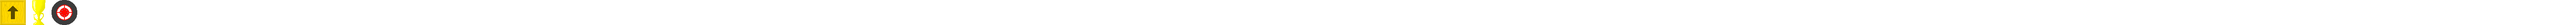
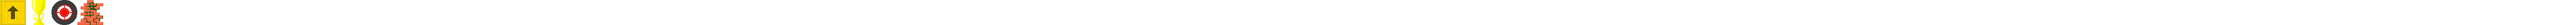
new box

Changed region(s): [[0.0312, 0.125, 0.0625, 1.0]]

diff --git a/src/com/pokeyone/throwbackgorilla/states/GameState.java b/src/com/pokeyone/throwbackgorilla/states/GameState.java
@@ -14,7 +14,6 @@ import javax.swing.*;
 import java.awt.*;
 import java.awt.event.ActionEvent;
 import java.awt.event.KeyEvent;
-import java.beans.PropertyChangeListener;
 import java.util.ArrayList;
 import java.util.Date;
 import java.util.HashMap;
@@ -55,6 +54,8 @@ public class GameState extends State {
     private int boxCount = 0;
     // Minimum box frequency
     private int boxFreqStopThreshold = 750;
+    // Whether or not game is paused
+    private boolean paused = false;
 
     public GameState(){
         super(Frame.FRAME_WIDTH, Frame.FRAME_HEIGHT);
@@ -71,7 +72,7 @@ public class GameState extends State {
             resourceHandler.addResource("Gorilla.png", RES_GORILLA_NAME, ResourceType.TILE_SET, 64, 64, 3);
             resourceHandler.addResource("grass.png", RES_GRASS_NAME, ResourceType.IMAGE);
             resourceHandler.addResource("background.png", RES_BACKGROUND_NAME, ResourceType.IMAGE);
-            resourceHandler.addResource("boxes.png", RES_BOX_TILESET_NAME, ResourceType.TILE_SET, 64, 64, 3);
+            resourceHandler.addResource("boxes.png", RES_BOX_TILESET_NAME, ResourceType.TILE_SET, 64, 64, 4);
             resourceHandler.loadAll();
         }catch(Exception e){
             e.printStackTrace();
@@ -109,86 +110,88 @@ public class GameState extends State {
     }
 
     public void tick(){
-        // Main Character Animation
-        if(new Date().getTime() - mainCharacterLastFrame.getTime() >= 250) {
-            if (mainCharacter.currentImage == 2){
-                mainCharacter.currentImage = 0;
-            }
-            if (mainCharacter.currentImage == 0) {
-                mainCharacter.currentImage = 1;
-            } else {
-                mainCharacter.currentImage = 0;
-            }
-
-            mainCharacterLastFrame = new Date();
-        }
-
-        // Ground Offset Movement
-        double newOff = (new Date().getTime() - groundLastFrame.getTime())/10.0;
-        groundOffset += newOff;
-
-        if(groundOffset >= 64){
-            groundOffset = 0.0;
-        }
-        groundLastFrame = new Date();
-
-        // Box spawning
-        if(new Date().getTime() - lastBoxSpawn.getTime() >= boxFrequency){
-            System.out.println("BOX SPAWN!");
-            boxes.add(new BoxEntity(640, stateHeight-128));
-            boxCount++;
-            lastBoxSpawn = new Date();
-
-            if(boxFrequency > boxFreqStopThreshold) {
-                int bound = 106;
-                if (boxCount < 25) {
-                    bound = 6 + boxCount * 4;
+        if (!paused) {
+            // Main Character Animation
+            if (new Date().getTime() - mainCharacterLastFrame.getTime() >= 250) {
+                if (mainCharacter.currentImage == 2) {
+                    mainCharacter.currentImage = 0;
                 }
-                int rand = random.nextInt(bound);
-                int additioner = (rand - (3 + boxCount * 3));
-                boxFrequency += additioner;
-                System.out.println(boxFrequency + " boop " + additioner);
-                if(boxFrequency < boxFreqStopThreshold) boxFrequency = boxFreqStopThreshold;
-            }
-        }
-
-        // Box Movement & Collision
-        if(boxes != null && !boxes.isEmpty()) {
-            for (BoxEntity box : boxes) {
-                box.x -= newOff;
-                if (box.thrown) {
-                    box.y -= newOff*3;
-                    box.x -= newOff;
+                if (mainCharacter.currentImage == 0) {
+                    mainCharacter.currentImage = 1;
+                } else {
+                    mainCharacter.currentImage = 0;
                 }
 
-                if (box.x < 64 && !box.thrown) {
-                    if (keys.get(BoxEntity.keyCodes[box.letter]) != null && keys.get(BoxEntity.keyCodes[box.letter])) {
-                        box.thrown = true;
-                        mainCharacter.currentImage = 2;
-                        mainCharacterLastFrame = new Date();
-                    }else{
-                        endgame();
+                mainCharacterLastFrame = new Date();
+            }
+
+            // Ground Offset Movement
+            double newOff = (new Date().getTime() - groundLastFrame.getTime()) / 10.0;
+            groundOffset += newOff;
+
+            if (groundOffset >= 64) {
+                groundOffset = 0.0;
+            }
+            groundLastFrame = new Date();
+
+            // Box spawning
+            if (new Date().getTime() - lastBoxSpawn.getTime() >= boxFrequency) {
+                System.out.println("BOX SPAWN!");
+                boxes.add(new BoxEntity(640, stateHeight - 128));
+                boxCount++;
+                lastBoxSpawn = new Date();
+
+                if (boxFrequency > boxFreqStopThreshold) {
+                    int bound = 106;
+                    if (boxCount < 25) {
+                        bound = 6 + boxCount * 4;
                     }
+                    int rand = random.nextInt(bound);
+                    int additioner = (rand - (3 + boxCount * 3));
+                    boxFrequency += additioner;
+                    System.out.println(boxFrequency + " boop " + additioner);
+                    if (boxFrequency < boxFreqStopThreshold) boxFrequency = boxFreqStopThreshold;
                 }
+            }
 
-                if (box.x < 0) {
-                    boxes.remove(box);
+            // Box Movement & Collision
+            if (boxes != null && !boxes.isEmpty()) {
+                for (BoxEntity box : boxes) {
+                    box.x -= newOff;
+                    if (box.thrown) {
+                        box.y -= newOff * 3;
+                        box.x -= newOff;
+                    }
+
+                    if (box.x < 64 && !box.thrown) {
+                        if (keys.get(BoxEntity.keyCodes[box.letter]) != null && keys.get(BoxEntity.keyCodes[box.letter])) {
+                            box.thrown = true;
+                            mainCharacter.currentImage = 2;
+                            mainCharacterLastFrame = new Date();
+                        } else {
+                            endgame();
+                        }
+                    }
+
+                    if (box.x < 0) {
+                        boxes.remove(box);
+                    }
                 }
             }
         }
     }
 
-    public void paint(Graphics g){
+    public void paint(Graphics g) {
         // Background
-        g.drawImage(((ResourceImage)(resourceHandler.getResource("background"))).getImage(), 0, 0, 640, 480, null);
+        g.drawImage(((ResourceImage) (resourceHandler.getResource("background"))).getImage(), 0, 0, 640, 480, null);
 
         // Floor
-        for(int i = 0; i <= Math.ceil(stateWidth/64.0); i++){
-            g.drawImage(((ResourceImage)(resourceHandler.getResource("grass"))).getImage(), i * 64 - (int)groundOffset, stateHeight-64, null);
+        for (int i = 0; i <= Math.ceil(stateWidth / 64.0); i++) {
+            g.drawImage(((ResourceImage) (resourceHandler.getResource("grass"))).getImage(), i * 64 - (int) groundOffset, stateHeight - 64, null);
         }
 
         // Main Character
-        g.drawImage(mainCharacter.getImage(), 0, stateHeight-mainCharacter.height-64, mainCharacter.width, mainCharacter.height, null);
+        g.drawImage(mainCharacter.getImage(), 0, stateHeight - mainCharacter.height - 64, mainCharacter.width, mainCharacter.height, null);
 
         // Boxes
         g.setColor(Color.BLACK);
@@ -196,12 +199,20 @@ public class GameState extends State {
         g.getFontMetrics(boxLetterFont);
 
 
-        if(boxes != null && !boxes.isEmpty())
-            for (BoxEntity box : boxes){
-                g.drawImage(box.getImage(), (int)box.x, (int)box.y, box.width, box.height, null);
-                g.drawString(KeyEvent.getKeyText(box.keyCodes[box.letter]), (int)box.x, (int)box.y);
+        if (boxes != null && !boxes.isEmpty()){
+            for (BoxEntity box : boxes) {
+                g.drawImage(box.getImage(), (int) box.x, (int) box.y, box.width, box.height, null);
+                g.drawString(KeyEvent.getKeyText(box.keyCodes[box.letter]), (int) box.x, (int) box.y);
             }
+        }
 
+
+        if (paused) {
+            g.setColor(new Color(0, 0, 0, 128));
+            g.fillRect(0, 0, stateWidth, stateHeight);
+            g.setColor(Color.WHITE);
+            g.drawString("Paused", stateWidth/2, stateHeight/2);
+        }
     }
 
     public InputMap getInputMap(){

diff --git a/src/com/pokeyone/throwbackgorilla/Game.java b/src/com/pokeyone/throwbackgorilla/Game.java
@@ -29,6 +29,7 @@ public class Game extends JPanel implements Runnable {
         };
 
         setInputMap(JPanel.WHEN_FOCUSED, states[0].getInputMap());
+        setInputMap(JPanel.WHEN_ANCESTOR_OF_FOCUSED_COMPONENT, states[0].getInputMap());
         setActionMap(states[0].getActionMap());
 
         thread = new Thread(this);
